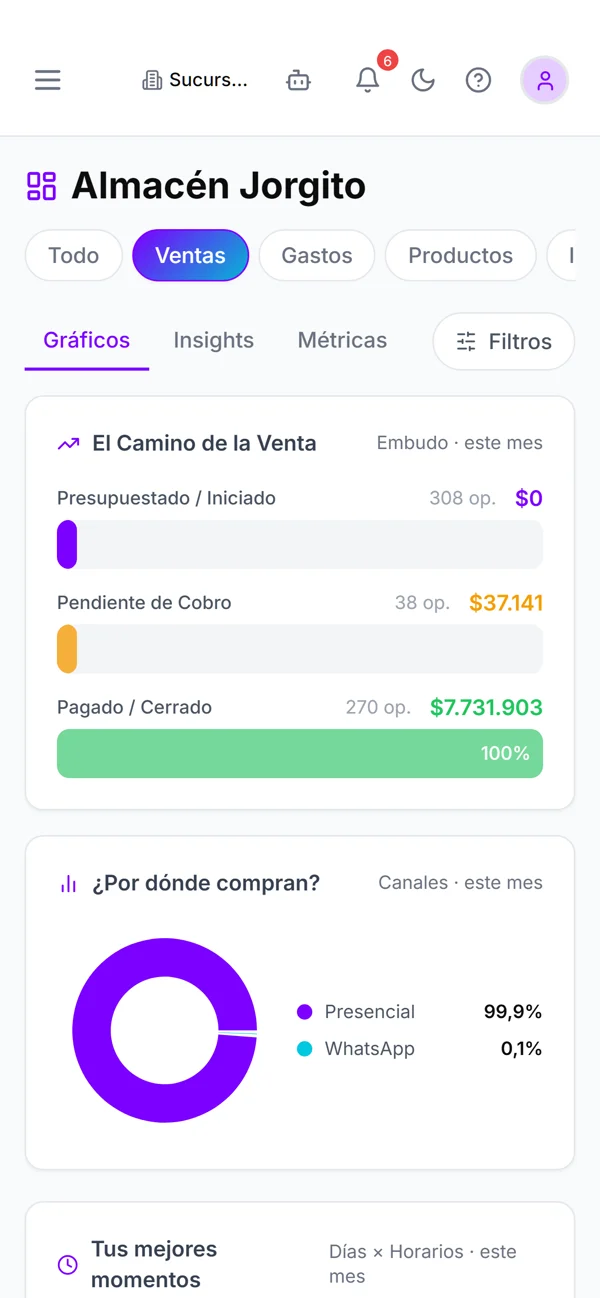
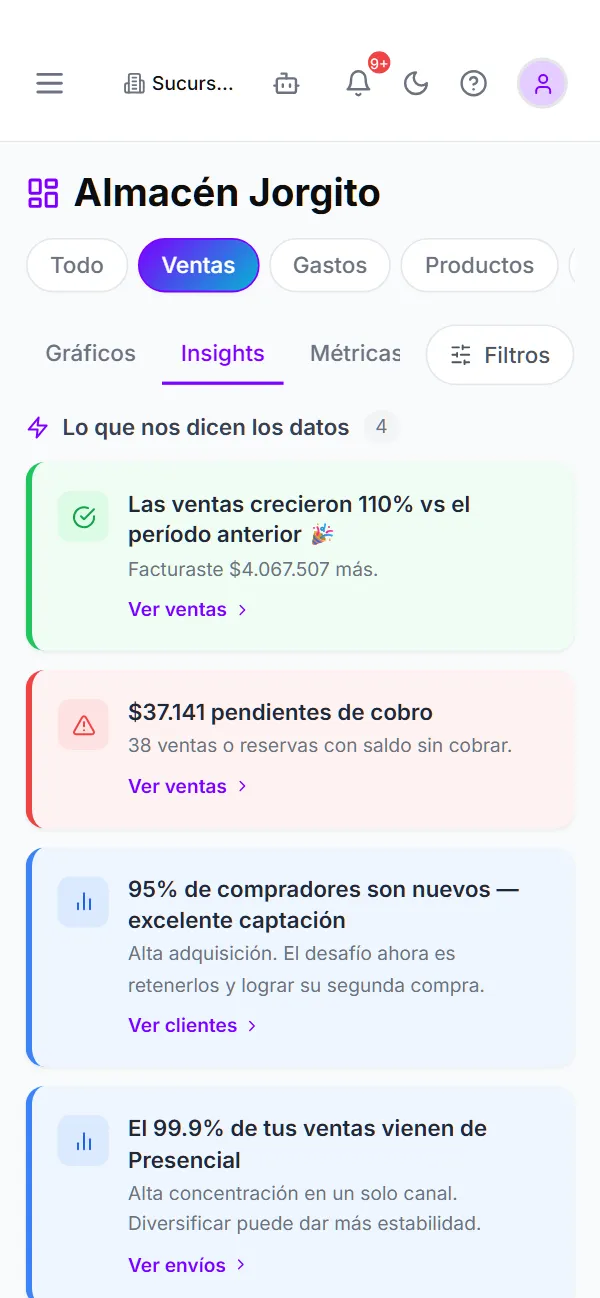
feat(landing): hero con capturas reales de Almacén Jorgito y ticket con los precios corregidos
- Tablet: POS con Coca Cola 1.5L ($1.657) + Yerba Mate La Cumbrecita 500g ($2.500). La Coca Cola 2.5L
  (que antes figuraba a $600) no tiene stock vendible en Norte: todo reservado por los e2e.
- Ticket de la impresora = la misma venta (TOTAL $4.157).
- Celular: Panel → Ventas → Insights (lo que detectó Genesis360) en vez del embudo con
  "Presupuestado 308 op. $0".
- tests/e2e/990_capturas_landing.spec.ts: herramienta para recapturar (CAPTURAS_LANDING=1).

diff --git a/tests/e2e/990_capturas_landing.spec.ts b/tests/e2e/990_capturas_landing.spec.ts
@@ -1,0 +1,104 @@
+/**
+ * 990_capturas_landing.spec.ts — HERRAMIENTA, no test. Saca las capturas REALES de la app que usa la landing
+ * (pedido de GO 2026-10-08: tenant de DEV "Almacén Jorgito", Sucursal Norte). No finaliza ninguna venta: solo arma el
+ * carrito y mira pantallas.
+ *
+ *   CAPTURAS_LANDING=1 npm run test:e2e -- 990_capturas_landing.spec.ts --project=chromium
+ *
+ * Salida: test-results/landing/*.png (después se convierten a webp/jpg en public/landing/).
+ */
+import { test, expect, type Page } from '@playwright/test'
+import { goto, waitForApp } from './helpers/navigation'
+
+const NORTE = 'b56742a9-c3a2-488e-b344-086227ef396e'
+const SALIDA = 'test-results/landing'
+
+test.skip(process.env.CAPTURAS_LANDING !== '1', 'Herramienta de capturas de la landing: correr con CAPTURAS_LANDING=1')
+
+async function prepararSesion(page: Page) {
+  await goto(page, '/dashboard')
+  await waitForApp(page)
+  await page.evaluate((id) => {
+    localStorage.setItem('sucursal-id', id)
+    localStorage.setItem('genesis360_walkthrough_v1', 'seen')
+    // Carrito limpio: el POS guarda un borrador por sucursal.
+    for (const k of Object.keys(localStorage)) if (/cart|carrito/i.test(k)) localStorage.removeItem(k)
+  }, NORTE)
+}
+
+/** La franja amarilla "Ambiente DEV — localhost" no existe en PROD: no va en una captura de la landing. */
+async function ocultarFranjaDev(page: Page) {
+  await page.evaluate(() => {
+    for (const el of Array.from(document.querySelectorAll('div'))) {
+      if (/^⚠?\s*Ambiente DEV/.test((el.textContent ?? '').trim()) && el.children.length === 0) (el as HTMLElement).style.display = 'none'
+    }
+  })
+}
+
+async function agregarAlCarrito(page: Page, busqueda: string, nombre: RegExp) {
+  const buscador = page.getByPlaceholder(/buscar por nombre/i).first()
+  // Como un usuario: foco + tecla por tecla (después de agregar uno, un `fill` solo no reabre la lista de resultados).
+  // La lista se abre con el foco y se cierra 150 ms DESPUÉS del blur (setTimeout en VentasPage): si se vuelve a enfocar
+  // antes, ese timeout la cierra igual. Se espera a que termine antes de volver al buscador.
+  await buscador.evaluate((el: HTMLElement) => el.blur())
+  await page.waitForTimeout(400)
+  await buscador.click()
+  await buscador.fill('')
+  await buscador.pressSequentially(busqueda, { delay: 40 })
+  const prod = page.locator('div.absolute.top-full button').filter({ hasText: nombre }).first()
+  await expect(prod, `no apareció ${nombre} en el buscador del POS`).toBeVisible({ timeout: 15000 })
+  await prod.click()
+  await buscador.fill('')
+}
+
+test.describe('Capturas reales para la landing', () => {
+  test.use({ viewport: { width: 1440, height: 900 }, deviceScaleFactor: 2 })
+
+  test('hero: Ventas con dos productos en el carrito (tablet)', async ({ page }) => {
+    await prepararSesion(page)
+    await goto(page, '/ventas')
+    await waitForApp(page)
+    await ocultarFranjaDev(page)
+    // "Disponible" es el filtro por defecto del POS; la captura usa "Todos" (como la anterior).
+    await page.getByRole('button', { name: /^Todos$/ }).first().click()
+    await agregarAlCarrito(page, 'Coca Cola 1.5', /Coca Cola 1\.5L/i)
+    // La Coca Cola 2.5L no tiene stock vendible en Norte (todo reservado por los e2e): va la yerba.
+    await agregarAlCarrito(page, 'Yerba', /Yerba Mate La Cumbrecita/i)
+    await expect(page.getByText(/2\s+productos/).first()).toBeVisible({ timeout: 8000 })
+    await page.mouse.move(0, 0)
+    await page.waitForTimeout(800)   // que terminen las transiciones y el motor de precios
+    // Mismo encuadre que la captura anterior: el contenido sin la barra lateral, 1184×760 (×2 = 2368×1520).
+    const aside = await page.locator('aside').first().boundingBox()
+    const x = Math.round(aside?.width ?? 256)
+    await page.screenshot({ path: `${SALIDA}/pos-venta.png`, clip: { x, y: 0, width: 1184, height: 760 } })
+    // Lo que muestra el carrito, para que el ticket dibujado de la landing coincida.
+    const filas = await page.locator('text=/^\\$[\\d.]+$/').allTextContents()
+    console.log('[capturas] montos visibles en el POS:', JSON.stringify(filas))
+  })
+})
+
+test.describe('Capturas reales para la landing (celular)', () => {
+  // 375×811 a 1.6 = 600×1298, el tamaño que usa `TelefonoPanel` en la landing.
+  test.use({ viewport: { width: 375, height: 811 }, deviceScaleFactor: 1.6, isMobile: true, hasTouch: true })
+
+  test('hero: Panel en el celular (candidatas por pestaña)', async ({ page }) => {
+    await prepararSesion(page)
+    await goto(page, '/dashboard')
+    await page.waitForLoadState('networkidle').catch(() => {})
+    await ocultarFranjaDev(page)
+    for (const pestana of ['Ventas', 'Gastos', 'Productos']) {
+      const btn = page.getByRole('button', { name: new RegExp(`^${pestana}$`) }).first()
+      if (!(await btn.isVisible().catch(() => false))) continue
+      await btn.click()
+      await page.waitForLoadState('networkidle').catch(() => {})
+      await page.waitForTimeout(1500)
+      await page.screenshot({ path: `${SALIDA}/panel-${pestana.toLowerCase()}.png` })
+      const insights = page.getByRole('button', { name: /^Insights$/ }).first()
+      if (await insights.isVisible().catch(() => false)) {
+        await insights.click(); await page.waitForTimeout(1500)
+        await page.screenshot({ path: `${SALIDA}/panel-${pestana.toLowerCase()}-insights.png` })
+        await page.getByRole('button', { name: /^Gráficos$/ }).first().click().catch(() => {})
+      }
+    }
+  })
+})

diff --git a/src/pages/LandingPage.tsx b/src/pages/LandingPage.tsx
@@ -80,7 +80,7 @@ export default function LandingPage() {
                 <picture>
                   <source srcSet="/landing/pos-venta.webp" type="image/webp" />
                   <img src="/landing/pos-venta.jpg" width={1184} height={760}
-                    alt="Pantalla de Ventas de Genesis360 en una tablet, con dos productos en el carrito y el total de la venta"
+                    alt="Pantalla de Ventas de Genesis360 en una tablet, con una Coca Cola y una yerba en el carrito"
                     className="block w-full h-auto" decoding="async" {...{ fetchpriority: 'high' }} />
                 </picture>
               </div>
@@ -105,11 +105,12 @@ export default function LandingPage() {
                       <p className="text-center font-semibold tracking-[0.12em] text-[#0D0D0D]">TICKET</p>
                       <p className="text-center text-zinc-500">Consumidor final</p>
                       <div className="my-2 border-t border-dashed border-zinc-300" />
+                      {/* La misma venta de la captura de la tablet (POS de DEV, Almacén Jorgito, 08/10): si se recaptura, actualizar acá. */}
                       <div className="flex justify-between gap-3 whitespace-nowrap"><span>1 Coca Cola 1.5L</span><span>$1.657</span></div>
-                      <div className="flex justify-between gap-3 whitespace-nowrap"><span>1 Coca Cola 2.5L</span><span>$600</span></div>
+                      <div className="flex justify-between gap-3 whitespace-nowrap"><span>1 Yerba Mate 500g</span><span>$2.500</span></div>
                       <div className="my-2 border-t border-dashed border-zinc-300" />
-                      <div className="flex justify-between font-semibold text-[#0D0D0D] text-[12.5px]"><span>TOTAL</span><span>$2.257</span></div>
-                      <div className="flex justify-between text-zinc-500"><span>Efectivo</span><span>$2.257</span></div>
+                      <div className="flex justify-between font-semibold text-[#0D0D0D] text-[12.5px]"><span>TOTAL</span><span>$4.157</span></div>
+                      <div className="flex justify-between text-zinc-500"><span>Efectivo</span><span>$4.157</span></div>
                       <p className="mt-2 text-center text-zinc-500">Gracias por su compra</p>
                     </div>
                   </div>

diff --git a/src/components/landing/LandingSecciones.tsx b/src/components/landing/LandingSecciones.tsx
@@ -515,15 +515,15 @@ export function SeccionFundadores() {
 }
 
 /* ── Hero · celular con el Panel (pedido de GO 2026-10-07) ────────────────────────────────────────────────────────────
-   Captura REAL del Panel en vista de celular (Panel → Ventas: embudo de la venta y canales), tomada de la app en DEV
-   (`public/landing/panel-celular.webp`, 600×1298). Los números son del negocio de prueba: reemplazar por una captura del
-   negocio demo cuando exista (pendiente en wiki/business/plan-landing-2.md). */
+   Captura REAL del Panel en vista de celular (Panel → Ventas → Insights: lo que detectó Genesis360), tomada de la app en DEV
+   (Almacén Jorgito, Sucursal Norte, 08/10 — elegido por GO) con `tests/e2e/990_capturas_landing.spec.ts`
+   (`public/landing/panel-celular.webp`, 600×1298). */
 export function TelefonoPanel() {
   return (
     <div className="rounded-[2.1rem] bg-gradient-to-b from-[#26262c] to-[#121216] p-[6px] shadow-[0_30px_60px_-24px_rgba(40,10,90,0.55),inset_0_0_0_1px_rgba(255,255,255,0.08)]">
       <div className="relative overflow-hidden rounded-[1.7rem] bg-white">
         <img src="/landing/panel-celular.webp" width={600} height={1298} loading="lazy" decoding="async"
-          alt="Panel de Genesis360 en el celular: el camino de la venta y por dónde compran los clientes"
+          alt="Panel de Genesis360 en el celular: lo que detectó en las ventas, como el crecimiento y lo pendiente de cobro"
           className="block h-auto w-full" />
         {/* Isla del teléfono sobre la captura */}
         <span aria-hidden className="absolute left-1/2 top-[7px] h-[15px] w-[52px] -translate-x-1/2 rounded-full bg-[#121216]" />
